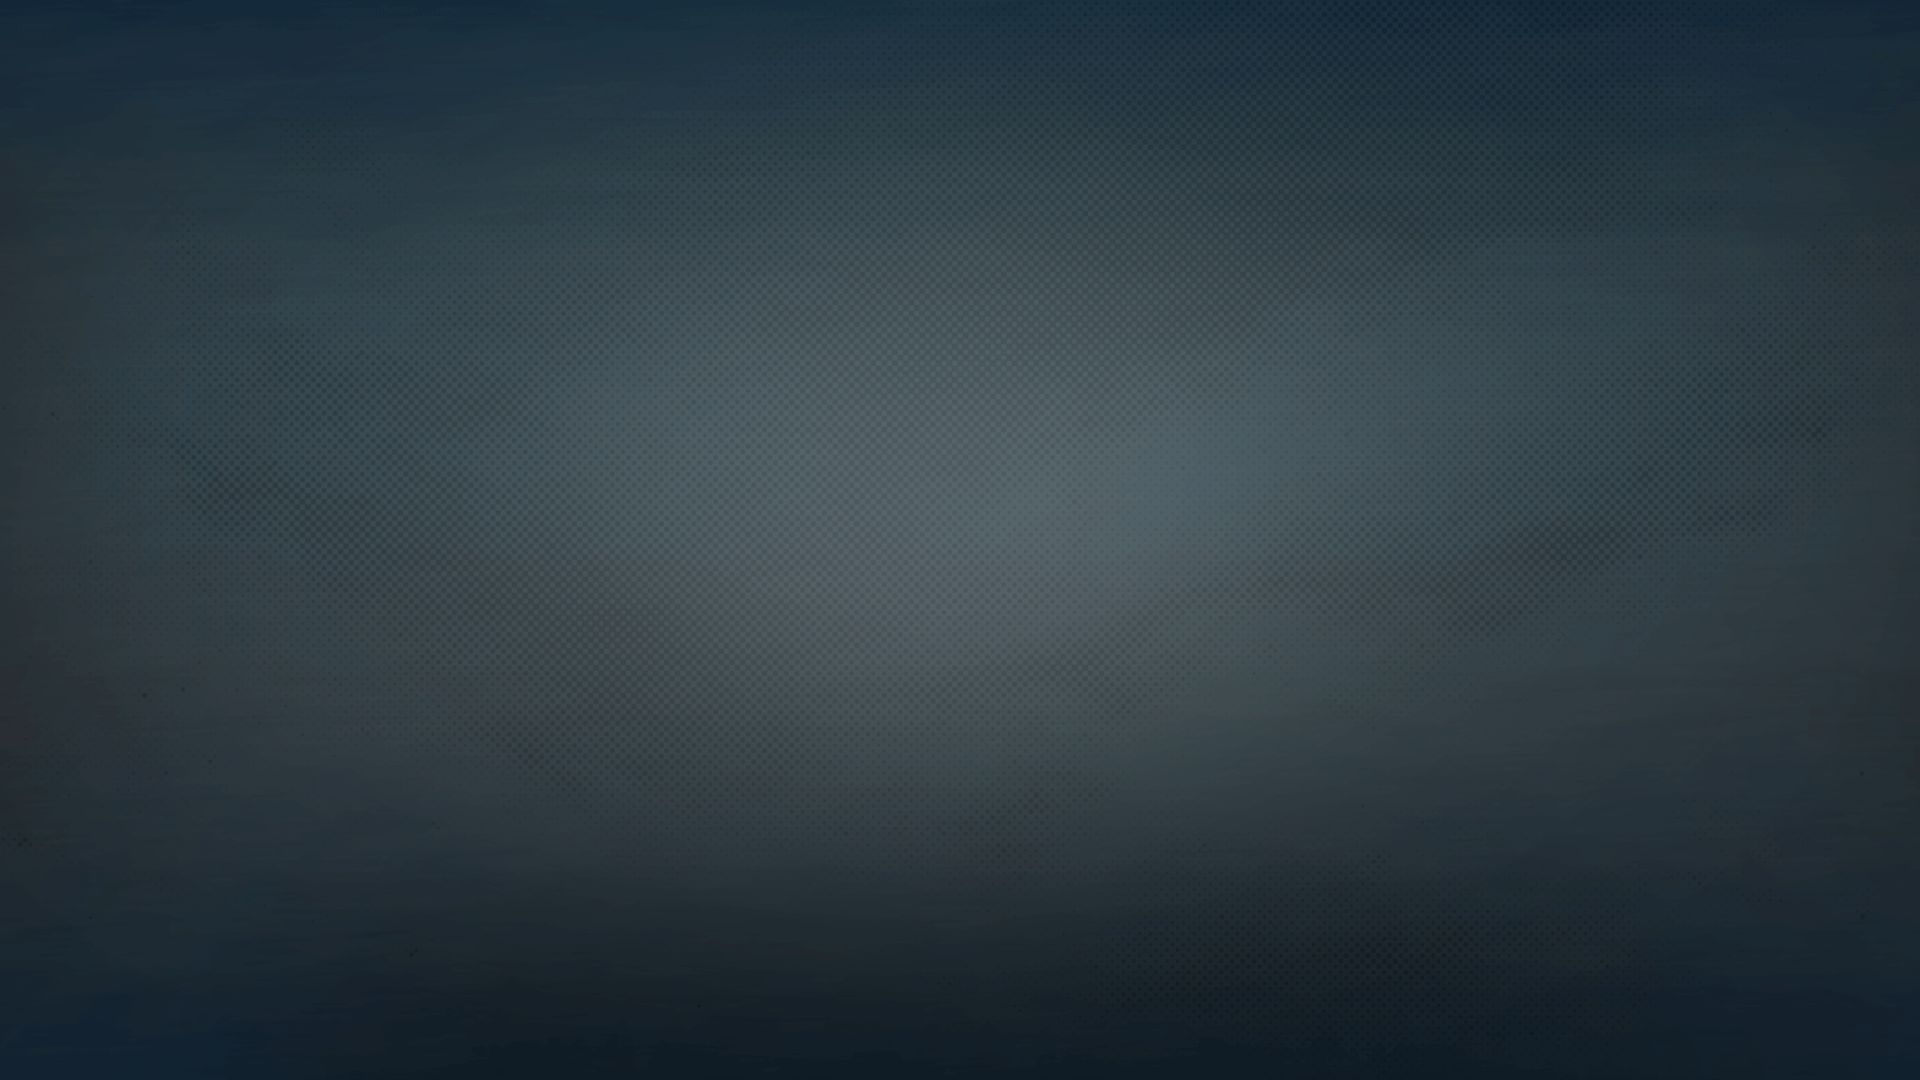
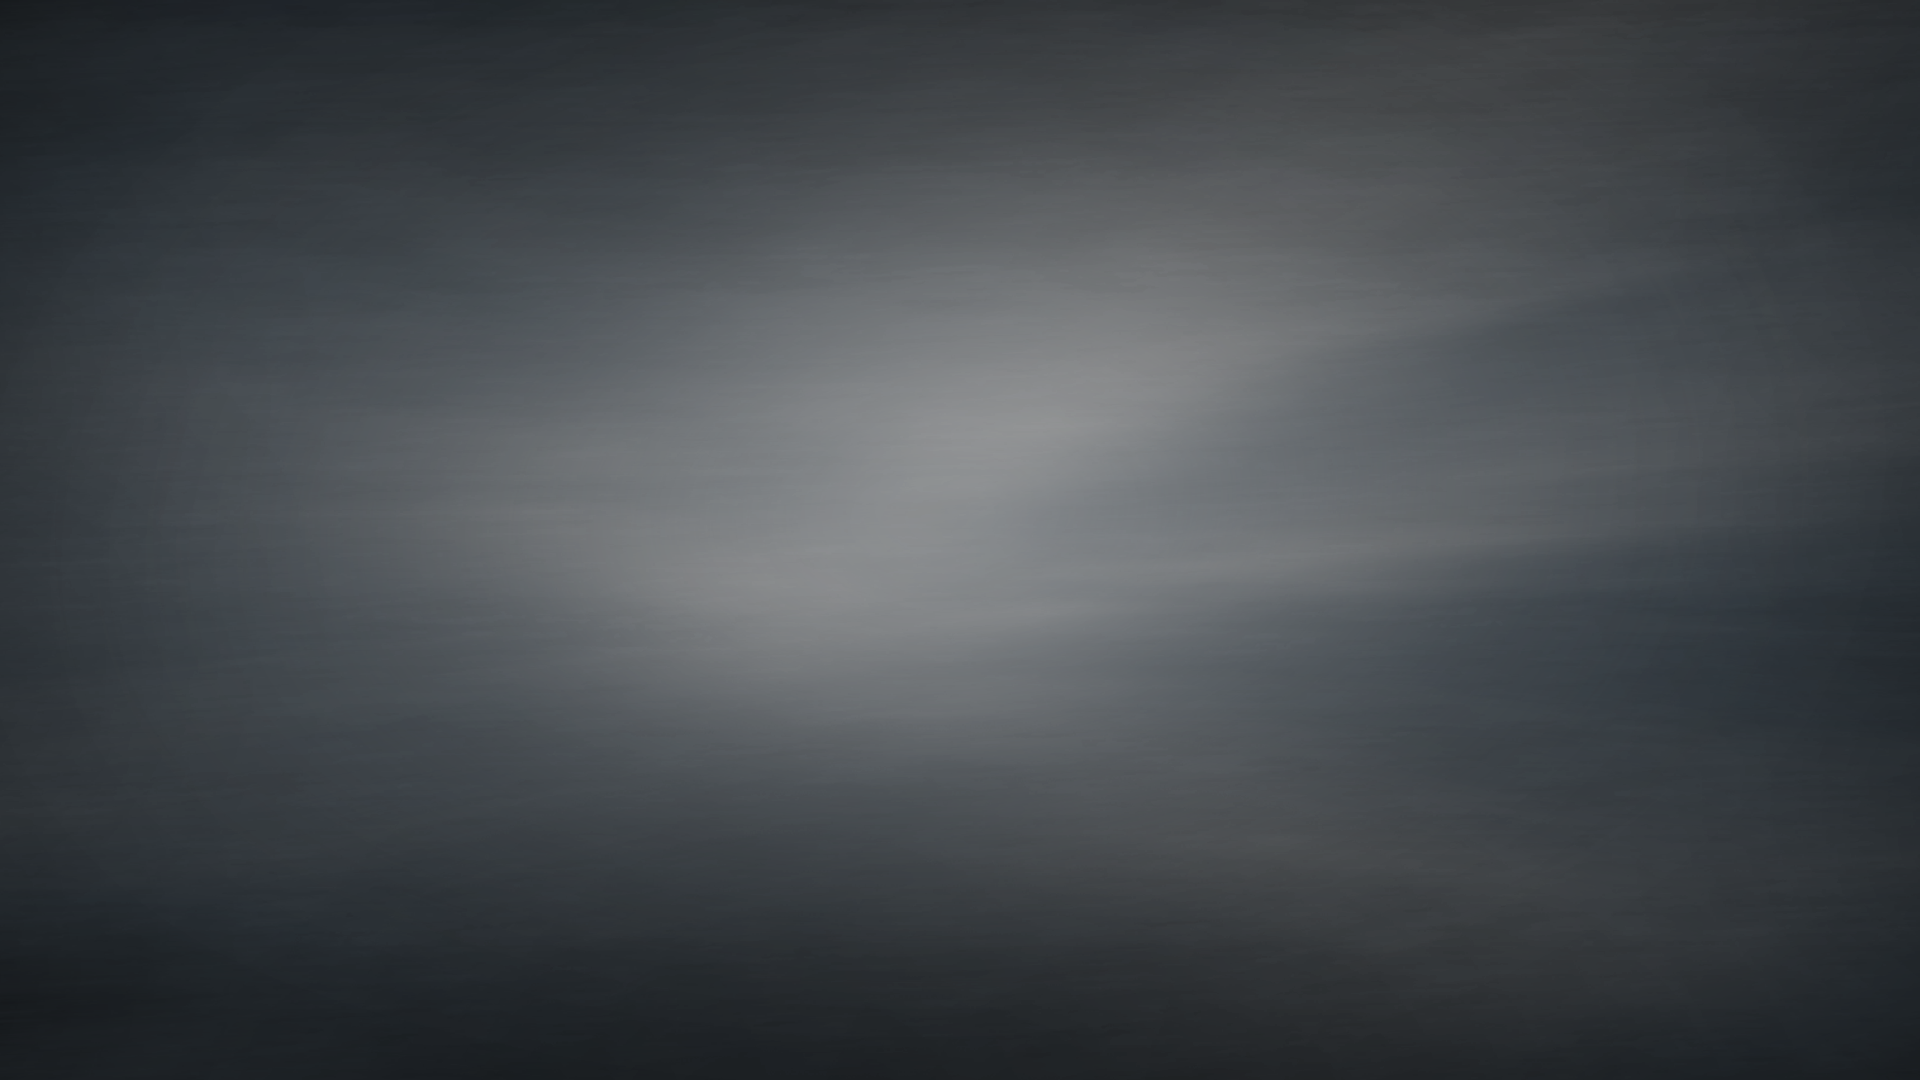
změna background, úprava mlhy, planety

diff --git a/scss/sections/_hero.scss b/scss/sections/_hero.scss
@@ -108,7 +108,7 @@ h1 {
   .planet {
     position: absolute;
     inset: 0px;
-    background: url("/assets/pictures/planet.png") center / contain no-repeat;
+    background: url("/assets/pictures/planeta.png") center / contain no-repeat;
     z-index: -3;
     filter: drop-shadow(-10px -5px 50px rgb(15, 27, 36, 0.5))
       drop-shadow(-10px 0px 110px rgb(15, 27, 36, 0.2));
